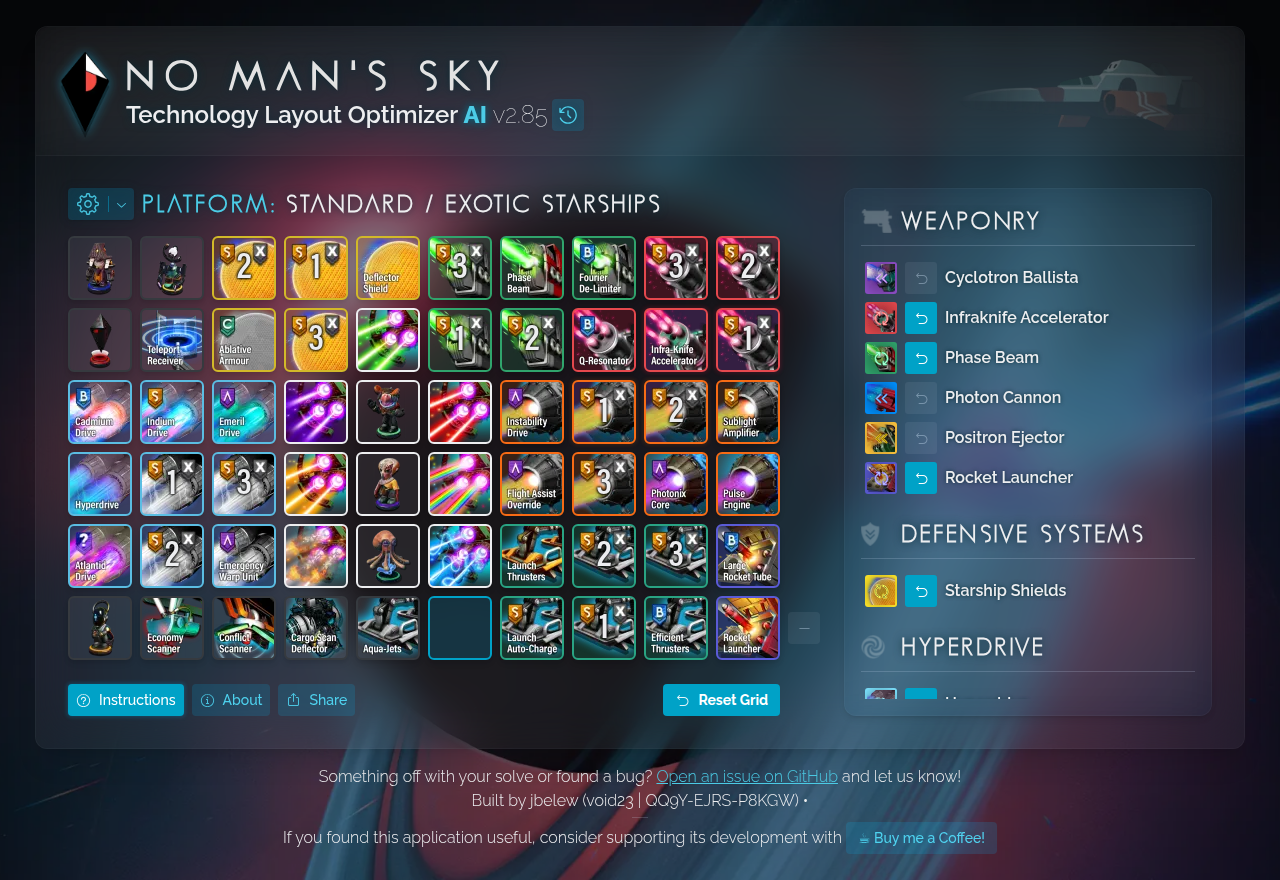
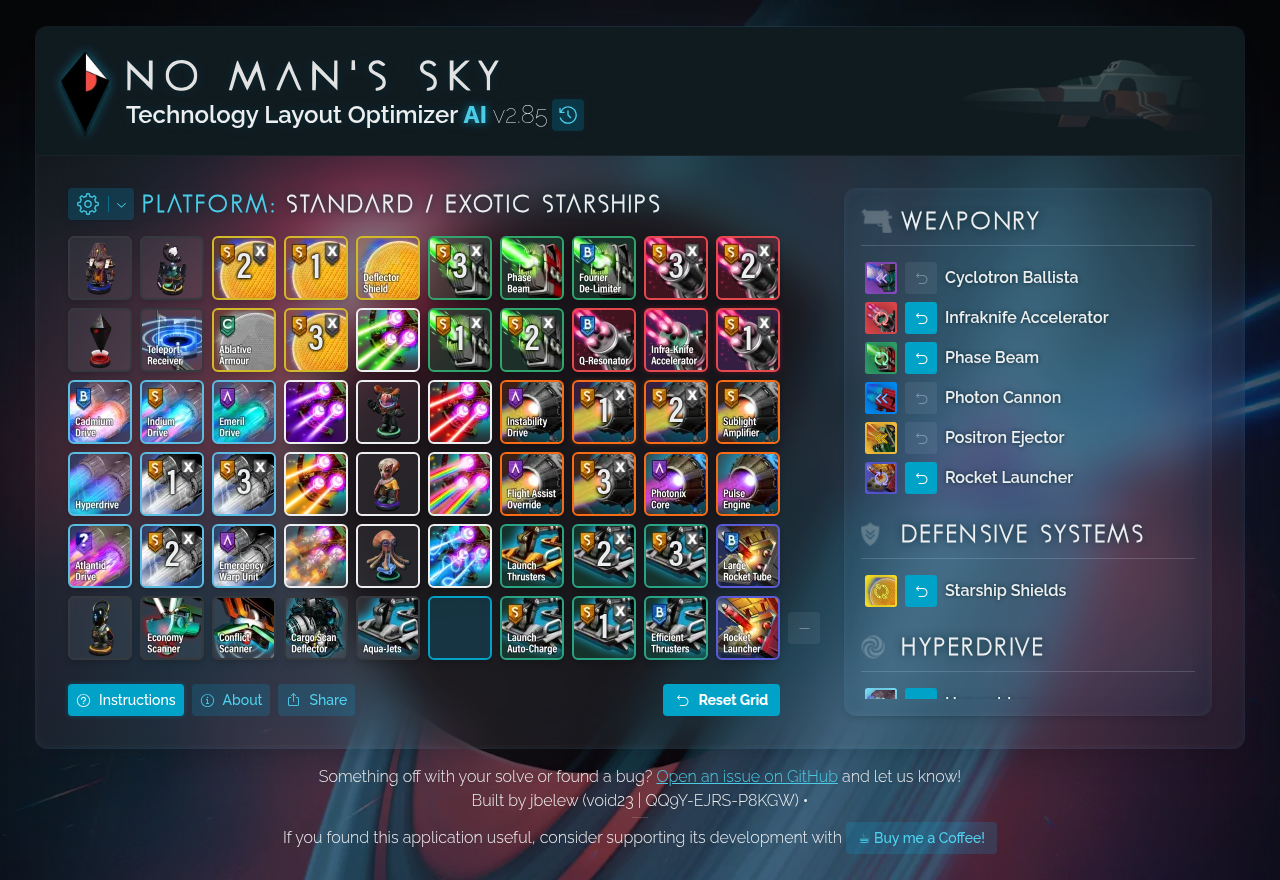
Updated screenshot with new header design.

Changed region(s): [[0.1562, 0.0307, 0.9062, 0.1841]]

diff --git a/src/components/AppHeader/AppHeader.tsx b/src/components/AppHeader/AppHeader.tsx
@@ -33,7 +33,7 @@ const AppHeaderInternal: React.FC<AppHeaderInternalProps> = ({ onShowChangelog }
 					/>
 					<h2 className="text-base sm:text-2xl header__title">
 						Technology Layout Optimizer <strong>AI</strong>{" "}
-						<span className="mr-1 font-thin">{APP_VERSION}</span>
+						<span className="mr-2 font-thin">{APP_VERSION}</span>
 						<Tooltip content="Changelog">
 							<IconButton
 								className="shadow-sm"
